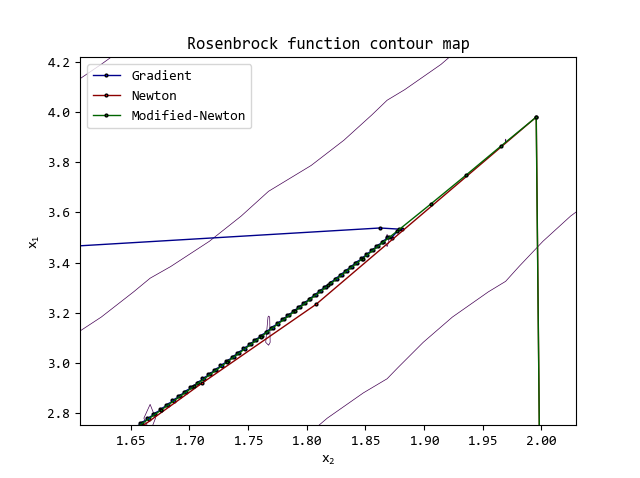
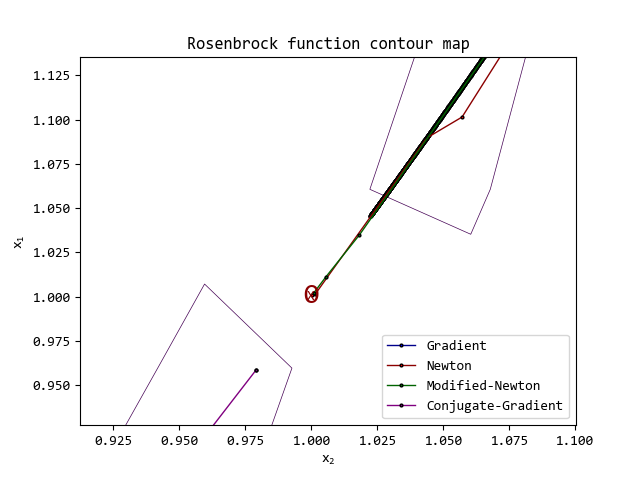
Algorithm Fix
Conjugate-gradient error fix

diff --git a/optinpy/linesearch/linesearch.py b/optinpy/linesearch/linesearch.py
@@ -32,7 +32,7 @@ def backtracking(fun,x0,d=None,alpha=1,rho=0.5,c=1e-4,max_iter=1e3,**kwargs):
         dd = np.dot(d,__jacobian(fun,x0,**kwargs))     
     else:
         d = -np.array(__jacobian(fun,x0,**kwargs)) # steepest descent step
-        dd = -np.dot(d,d) 
+        dd = np.dot(d,-d) 
     iters = 0
     while not __armijo(fun,x0,d,dd,alpha,c) and iters < max_iter:# Armijo's Condition
         alpha = rho*alpha
@@ -51,12 +51,12 @@ def interp23(fun,x0,d=None,alpha=1,c=1e-4,alpha_min=0.1,rho=0.5,max_iter=1e3,**k
         ..**kwargs as a dictionary with the jacobian function parameters
     '''
     alpha0 = alpha
+    f0 = fun(x0)
     if any(d):
-        pass
         dd = np.dot(d,__jacobian(fun,x0,**kwargs))     
     else:
         d = -np.array(__jacobian(fun,x0,**kwargs)) # steepest descent step
-        dd = -np.dot(d,d)
+        dd = np.dot(d,-d)
     iters = {'first_order':0,'second_order':0,'third_order':0}
     iters['first_order'] += 1
     if __armijo(fun,x0,d,dd,alpha0,c):
@@ -64,7 +64,7 @@ def interp23(fun,x0,d=None,alpha=1,c=1e-4,alpha_min=0.1,rho=0.5,max_iter=1e3,**k
     else:
         # second order approximation
         iters['second_order'] += 1
-        alpha1 = -(dd*alpha0**2)/(2*(fun(xstep(x0,d,alpha0))-fun(x0)-dd*alpha0))
+        alpha1 = -(dd*alpha0**2)/(2*(fun(xstep(x0,d,alpha0))-f0-dd*alpha0))
         if __armijo(fun,x0,d,dd,alpha1,c) and alpha1 > alpha_min:# Armijo's Condition
             return {'x':xstep(x0,d,alpha1), 'f':fun(xstep(x0,d,alpha1)), 'alpha':alpha1, 'iterations':sum(iters.values()), 'inner_iterations':iters}
         else:
@@ -77,7 +77,7 @@ def interp23(fun,x0,d=None,alpha=1,c=1e-4,alpha_min=0.1,rho=0.5,max_iter=1e3,**k
                     iters['third_order'] += 1
                     coeff = (1/(alpha0**2*alpha1**2*(alpha1-alpha0)))
                     m = [[alpha0**2,-alpha1**2],[-alpha0**3,alpha1**3]]
-                    v = [fun(xstep(x0,d,alpha1))-fun(x0)-alpha1*dd,fun(xstep(x0,d,alpha0))-fun(x0)-alpha0*dd]
+                    v = [fun(xstep(x0,d,alpha1))-f0-alpha1*dd,fun(xstep(x0,d,alpha0))-f0-alpha0*dd]
                     a, b = coeff*np.dot(m,v)
                     alpha0 = alpha1
                     alpha1 = (-b+(b**2-3*a*dd)**0.5)/(3*a)

diff --git a/main.py b/main.py
@@ -43,7 +43,7 @@ print 'interpolate\n', optinpy.linesearch.interp23(rosen,[0,0],-optinpy.finitedi
 print 'unimodality\n', optinpy.linesearch.unimodality(rosen,[0,0],-optinpy.finitediff.jacobian(rosen,[0,0]),1)
 print 'golden-section\n', optinpy.linesearch.golden_section(rosen,[0,0],-optinpy.finitediff.jacobian(rosen,[0,0]),1)
 
-optinpy.nonlinear.unconstrained.params['linesearch']['method'] ='backtracking'
+optinpy.nonlinear.unconstrained.params['linesearch']['method'] ='interp23'
 p0 = [2,2]
                                       
 optinpy.nonlinear.unconstrained.params['fminunc']['method'] = 'gradient'
@@ -73,6 +73,21 @@ plt.gca().set_ylabel('$x_1$')
 plt.gca().set_xlabel('$x_2$')
 plt.gca().set_title('Rosenbrock function contour map')
 plt.legend()
+
+plt.figure()
+plt.plot([i for i in gradientdesc['f']],label='Gradient',color='darkblue')
+plt.plot([i for i in newton['f']],label='Newton',color='darkred')
+plt.plot([i for i in modnewton['f']],label='Modified-Newton',color='darkgreen')
+plt.plot([i for i in conj_gradient['f']],label='Conjugate-Gradient',color='purple')
+plt.gca().set_ylabel('$error$')
+plt.gca().set_xlabel('iteration')
+plt.gca().set_xscale('log')
+plt.gca().set_yscale('log')
+plt.legend()
+plt.gca().set_title('Error evolution')
+
+
+    
 #S.dual()
 """
 plt.figure()

diff --git a/optinpy/nonlinear/unconstrained/unconstrained.py b/optinpy/nonlinear/unconstrained/unconstrained.py
@@ -6,7 +6,7 @@ from ... import np as __np
 from ... import scipy as __sp
 
 params = {'fminunc':{'method':'newton','params':\
-                {'gradient':{'max_iter':1e3},\
+                {'gradient':{'max_iter':1e4},\
                  'newton':{'max_iter':1e3},\
                  'modified-newton':{'sigma':1,'max_iter':1e3},\
                  'conjugate-gradient':{'max_iter':1e3}}},\
@@ -56,13 +56,13 @@ def conj_gradient(fun,x0,d,*args,**kwargs):
         conjugate-gradient method
         ..fun as callable object; must be a function of x0 and return a single number
         ..x0 as a numeric array; point from which to start
-    '''        
+    '''     
     g = __jacobian(fun,x0,**params['jacobian'])
     Q = __hessian(fun,x0,**params['hessian'])
-    if sum(abs(d)) == 0 or kwargs['iters'] + 1 % len(x0) == 0:
+    if sum(abs(d)) == 0 or ((kwargs['iters'] + 1) % len(x0)) == 0:
         return -g, g, Q
     else:
-        beta = g.T.dot(Q).dot(d)/d.T.dot(Q).dot(d)
+        beta = g.T.dot(Q).dot(d)/(d.T.dot(Q).dot(d))
         d = -g + beta*d
         return d, g, Q
 
